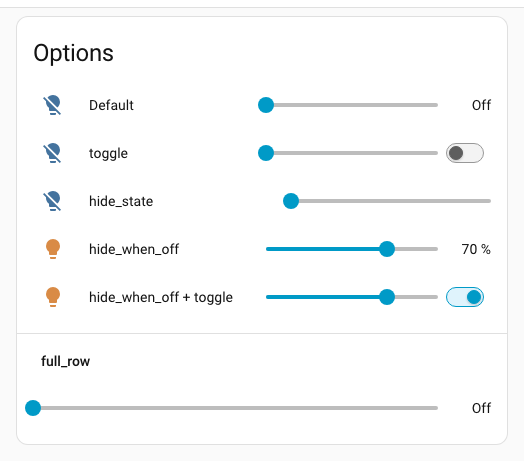
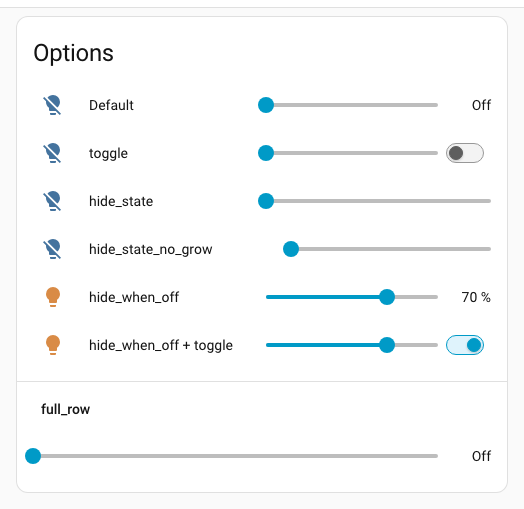
docs: Update an generate doc and test scenarios

diff --git a/README.md b/README.md
@@ -50,7 +50,7 @@ Available options:
 | `toggle`        | `true`/`false` | Show a toggle or mute button if possible                                                                                                  | `false`  |
 | `hide_state`    | `true`/`false` | `true`: Do not display the current state <br>`false`: Always display current state - even when the card is too narrow for it to be usable | none     |
 | `hide_when_off` | `true`/`false` | `true`: Hide slider when state is off <br>`false`: Always display slider                                                                  | `false`  |
-| `grow`          | `true`/`false` | Let the slider grow to full available width without `full_row` behavior (most useful when state is hidden)                                | `false`  |
+| `grow`          | `true`/`false` | Let the slider grow to full available width without `full_row` behavior (most useful when state is hidden)                                | `true`  |
 | `full_row`      | `true`/`false` | Hide the icon and name and stretch slider to full width                                                                                   | `false`  |
 | `show_icon`     | `true`/`false` | Show an icon when `full_row` is true. This icon is NOT clickable                                                                          | `false`  |
 | `attribute`     | (see below)    | Which attribute the slider should control                                                                                                 |          |
